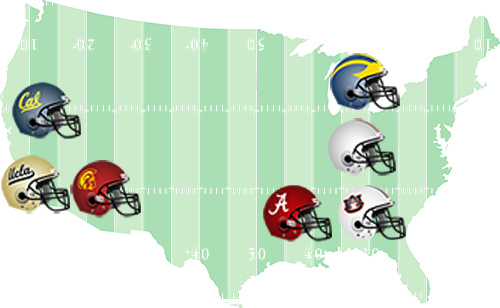
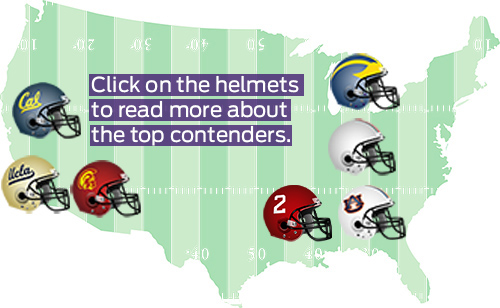
updated chapter 5

Changed region(s): [[0.18, 0.2338, 0.63, 0.4968], [0.54, 0.6136, 0.69, 0.789], [0.57, 0.5844, 0.6, 0.6136]]

diff --git a/templates/_assets/chapterfive_map.html b/templates/_assets/chapterfive_map.html
@@ -1,7 +1,7 @@
 <div class="img-container map-graphic">
     
   <h2>Tracking Najee Harris' recruitment</h2>
-  <p>Antioch High's Najee Harris, the nation's consensus No. 1 recruit, has fielded scholarship offers from nearly every major college football program in the nation. He verbally committed to Alabama as a high school sophomore in April 2015, but he has kept his recruitment open and made unofficial visits to several top schools this past summer. Harris can't officially commit until national signing day on Feb. 1.<br>Here's a look at some of the top candidates:</p>
+  <p>Antioch High's Najee Harris, the nation's consensus No. 1 recruit, has fielded scholarship offers from nearly every major college football program in the nation. He verbally committed to Alabama as a high school sophomore in April 2015, but he has kept his recruitment open and made unofficial visits to several top schools this past summer. Harris can't officially commit until national signing day on Feb. 1.</p>
   <img id="map-img" usemap="#imageMap" src="{{url_for('static', filename='images/recruiting/map.jpg')}}">
   <img id="map-img-mobile" usemap="#imageMap-mobile" src="{{url_for('static', filename='images/recruiting/map-mobile.jpg')}}">
   <p class="caption"><span class="byline"> Graphics: Todd Trumbull, The Chronicle</span></p>
@@ -10,6 +10,7 @@
 
 		<area shape="poly" coords="684,161,687,170,687,171,700,171,700,173,701,173,703,176,704,176,705,194,702,195,701,197,697,198,696,200,685,200,683,197,681,197,680,195,678,194,678,193,676,193,675,191,669,191,666,195,665,195,662,199,654,200,654,201,653,201,653,200,650,200,650,199,647,199,647,198,643,198,643,197,640,197,640,196,637,196,637,195,631,194,631,193,630,193,629,188,628,188,628,186,627,186,627,183,626,183,626,181,625,181,625,178,624,178,624,176,623,176,623,158,624,158,624,156,626,155,626,153,627,153,627,151,628,151,628,149,629,149,629,147,630,147,630,145,639,137,645,136,645,135,647,135,647,134,654,134,654,133,670,134,670,135,675,136,676,138,678,138,682,143,685,144,685,146,688,148,688,150,690,151,690,152,691,152,692,157" onclick="showonlyone('michigan')" alt="michigan" title="michigan"/>
 		<div id="michigan" class="tool">
+			<img class="helmet" src="{{url_for('static', filename='images/recruiting/michigan.png')}}">
 			<h2>Michigan</h2>
 			<div class="close">X</div>
 			<table class="map-popup">
@@ -50,7 +51,7 @@
 		</div>
 
 		<area shape="poly" coords="692,240,695,249,696,249,696,250,704,250,708,250,708,251,709,251,710,255,711,255,711,260,712,260,712,267,712,272,713,272,713,273,712,273,710,276,708,276,708,277,691,278,684,270,682,270,682,269,678,269,671,277,668,277,668,278,655,277,655,276,652,276,652,275,648,275,648,274,645,274,645,273,641,273,641,272,640,272,639,269,638,269,638,267,637,267,637,264,636,264,636,262,635,262,635,260,634,260,634,258,633,258,632,249,632,238,633,238,634,235,635,235,635,233,637,232,637,230,639,229,639,227,641,226,641,224,643,223,643,221,644,221,645,218,654,215,654,214,660,213,660,212,674,212,674,213,676,213,677,215,681,216,682,218,684,218,685,220,689,221,690,223,692,223,693,225,696,227,696,229,699,231,699,235,698,235,698,237,696,238,696,239" onclick="showonlyone('ohio')" alt="ohio" title="ohio"/>
-		<div id="ohio" class="tool"><h2>Ohio State</h2><div class="close">X</div><table class="map-popup">
+		<div id="ohio" class="tool"><img class="helmet" src="{{url_for('static', filename='images/recruiting/ohio.png')}}"><h2>Ohio State</h2><div class="close">X</div><table class="map-popup">
 			  <tbody>
 			    <tr>
 			      <td>City</td>
@@ -87,7 +88,7 @@
 	  		</div></div>
 
 		<area shape="poly" coords="694,373,695,376,696,376,696,378,698,379,698,381,699,381,699,384,697,385,697,387,694,388,694,389,693,389,693,392,694,392,695,398,709,399,710,404,711,404,712,423,709,424,708,426,700,426,700,427,692,427,691,425,688,424,684,419,677,419,675,422,673,422,669,427,659,427,659,426,653,425,653,424,649,424,649,423,646,423,646,422,641,421,640,418,639,418,639,416,638,416,638,414,637,414,637,412,636,412,636,410,635,410,635,408,634,408,634,406,633,406,633,401,632,401,632,386,633,386,633,384,634,384,634,382,635,382,635,380,636,380,636,378,637,378,637,376,638,376,638,374,639,374,641,371,643,371,646,367,648,367,649,365,654,364,654,363,657,363,657,362,660,362,660,361,673,361,673,362,675,362,675,363,679,364,680,366,682,366,682,367,684,367,685,369,689,370,689,371,691,371,691,372" onclick="showonlyone('auburn')" alt="auburn" title="auburn"/>
-		<div id="auburn" class="tool"><h2>Auburn</h2><div class="close">X</div><table class="map-popup">
+		<div id="auburn" class="tool"><img class="helmet" src="{{url_for('static', filename='images/recruiting/auburn.png')}}"><h2>Auburn</h2><div class="close">X</div><table class="map-popup">
 			  <tbody>
 			    <tr>
 			      <td>City</td>
@@ -124,7 +125,7 @@
 	  		</div></div>
 
 		<area shape="poly" coords="630,400,632,423,630,424,630,425,628,425,627,427,619,427,619,428,611,428,611,427,609,427,608,425,603,421,602,419,599,419,599,420,597,420,597,421,595,421,594,423,592,424,592,425,590,425,588,428,583,428,583,429,579,429,579,428,577,428,577,427,571,426,571,425,566,424,566,423,564,423,564,422,561,422,561,421,559,421,558,419,557,419,556,414,555,414,555,411,554,411,554,408,553,408,553,406,552,406,551,400,550,400,550,387,551,387,551,384,552,384,552,382,554,381,554,379,556,378,556,376,557,376,557,374,559,373,561,370,563,370,567,365,569,365,569,364,571,364,571,363,574,363,574,362,578,362,578,361,593,361,593,362,597,363,597,364,599,364,599,365,601,365,601,366,603,366,603,367,605,367,611,372,611,374,616,378,616,380,620,383,620,384,619,384,611,390,614,399,615,399,615,400" onclick="showonlyone('alabama')" alt="alabama" title="alabama"/>
-		<div id="alabama" class="tool"><h2>Alabama</h2><div class="close">X</div><table class="map-popup">
+		<div id="alabama" class="tool"><img class="helmet" src="{{url_for('static', filename='images/recruiting/alabama.png')}}"><h2>Alabama</h2><div class="close">X</div><table class="map-popup">
 			  <tbody>
 			    <tr>
 			      <td>City</td>
@@ -161,7 +162,7 @@
 	  		</div></div>
 
 		<area shape="poly" coords="145,327,145,329,155,338,155,340,158,342,158,343,157,343,156,345,154,345,152,348,150,349,150,352,151,352,152,359,167,360,169,369,170,369,170,384,166,385,165,387,147,387,140,379,135,379,130,385,128,385,126,388,115,388,115,387,109,386,109,385,105,385,105,384,102,384,102,383,99,383,99,382,98,382,97,379,96,379,96,377,95,377,95,375,94,375,94,373,93,373,92,368,91,368,89,362,88,362,89,353,90,353,90,349,91,349,93,337,97,334,97,333,99,333,100,331,103,330,103,329,105,329,107,326,109,326,110,324,113,323,113,322,116,322,116,321,132,321,132,322,134,322,134,323" onclick="showonlyone('usc')" alt="usc" title="usc"/>
-		<div id="usc" class="tool"><h2>USC</h2><div class="close">X</div><table class="map-popup">
+		<div id="usc" class="tool"><img class="helmet" src="{{url_for('static', filename='images/recruiting/usc.png')}}"><h2>USC</h2><div class="close">X</div><table class="map-popup">
 			  <tbody>
 			    <tr>
 			      <td>City</td>
@@ -172,8 +173,8 @@
 			      <td>360 miles</td>
 			    </tr>
 			    <tr>
-			      <td>Record (as of Oct. 26)</td>
-			      <td>4-3</td>
+			      <td>Record (as of Oct. 27)</td>
+			      <td>5-3</td>
 			    </tr>
 			    <tr>
 			      <td>AP rank</td>
@@ -198,7 +199,7 @@
 	  		</div></div>
 
 		<area shape="poly" coords="70,316,72,325,81,326,81,327,86,327,86,328,87,328,87,335,87,351,84,352,84,353,81,353,81,354,78,354,78,355,67,354,61,347,59,347,59,346,54,346,46,355,35,355,17,349,16,346,15,346,15,344,14,344,14,342,13,342,12,337,11,337,10,333,9,333,9,329,8,329,8,315,9,315,11,309,12,309,12,307,13,307,13,305,14,305,14,303,19,296,21,296,21,295,23,295,23,294,25,294,25,293,27,293,27,292,29,292,29,291,35,289,35,288,53,288,53,289,57,290,57,291,61,292,62,294,66,295,69,300,73,303,73,305,76,307,76,309,78,310,78,311,77,311,76,313,74,313,74,314,73,314,73,315" onclick="showonlyone('ucla')" alt="ucla" title="ucla"/>
-		<div id="ucla" class="tool"><h2>UCLA</h2><div class="close">X</div><table class="map-popup">
+		<div id="ucla" class="tool"><img class="helmet" src="{{url_for('static', filename='images/recruiting/ucla.png')}}"><h2>UCLA</h2><div class="close">X</div><table class="map-popup">
 			  <tbody>
 			    <tr>
 			      <td>City</td>
@@ -235,7 +236,7 @@
 	  		</div></div>
 
 		<area shape="poly" coords="72,233,75,233,75,234,86,234,88,241,89,241,89,258,87,259,87,261,68,262,60,253,54,253,54,255,49,259,48,261,43,261,43,262,33,262,33,261,24,259,24,258,22,258,22,257,16,256,12,245,11,245,11,243,10,243,10,240,9,240,9,238,8,238,7,235,8,235,8,220,9,220,10,217,11,217,12,214,14,213,14,211,17,209,17,207,20,205,21,202,23,202,23,201,25,201,25,200,28,200,28,199,34,197,34,196,37,196,37,195,52,195,52,196,55,197,55,198,57,198,58,200,62,201,63,203,65,203,65,204,67,204,68,206,71,208,71,210,77,215,77,220,75,221,75,222,73,222,73,223,71,223,71,224,70,224,70,227,71,227" onclick="showonlyone('cal')" alt="cal" title="cal"/>
-		<div id="cal" class="tool"><h2>Cal</h2><div class="close">X</div><table class="map-popup">
+		<div id="cal" class="tool"><img class="helmet" src="{{url_for('static', filename='images/recruiting/cal.png')}}"><h2>Cal</h2><div class="close">X</div><table class="map-popup">
 			  <tbody>
 			    <tr>
 			      <td>City</td>
@@ -246,8 +247,8 @@
 			      <td>35 miles</td>
 			    </tr>
 			    <tr>
-			      <td>Record (as of Oct. 26)</td>
-			      <td>4-3</td>
+			      <td>Record (as of Oct. 27)</td>
+			      <td>4-4</td>
 			    </tr>
 			    <tr>
 			      <td>AP rank</td>

diff --git a/templates/_assets/chapterfive.html b/templates/_assets/chapterfive.html
@@ -13,7 +13,7 @@
 
 <div class="inline-img">
   <img src="http://ww1.hdnux.com/photos/51/21/44/11611737/5/900x900.jpg">
-  <p class="caption">Michigan Wolverines head coach Jim Harbaugh puts hat on heart during the national anthem before Antioch’s home game against Liberty-Brentwood on Oct. 14. The former 49ers coach was in Antioch to watch sought-after running back Najee Harris, whose team won 62-25. <span class="byline"> Michael Macor, The Chronicle</span></p>
+  <p class="caption">Michigan Wolverines head coach Jim Harbaugh puts hat on heart during the national anthem before Antioch’s home game against Liberty-Brentwood on Oct. 14. The former 49ers coach was in Antioch to watch Harris, whose team won 62-25. <span class="byline"> Michael Macor, The Chronicle</span></p>
 </div>
 
 <p>Eighteen months ago, as a wide-eyed sophomore on an unofficial visit to Alabama, Harris made a nonbinding verbal commitment to play for the Crimson Tide. He soon decided to keep his recruitment open, leaving the door ajar for many high-powered programs. Now, as the most coveted senior in the country, he’s still weighing where to play next year — and the competition to land him grows more intense every week.</p>
@@ -25,11 +25,11 @@
 <p>This is testament to how every twist and turn can raise the stakes in the crazy-competitive world of recruiting, and no player in the class of 2017 creates a more spirited tussle than Harris.</p>
 
 
-<p>Harbaugh’s visit to Antioch during Michigan’s bye week was big news on social media and recruiting websites. Images and video quickly went viral: Harbaugh posing with fans, chatting with Antioch principal Louie Rocha and introducing homecoming queen.</p>
+<p>Harbaugh’s visit to Antioch during Michigan’s bye week was big news on social media and recruiting websites. Images and video quickly went viral: Harbaugh posing with fans, chatting with Antioch principal Louie Rocha and introducing homecoming queen Tatiana Mendez.</p>
 
 <div class="inline-img">
   <img src="http://ww1.hdnux.com/photos/51/21/44/11611734/5/900x0.jpg">
-  <p class="caption">Antioch standout Najee Harris (No. 2) and his teammates get set to play  Freedom High in Oakley on Oct. 7. Freedom walloped Antioch 65-28, handing the Panthers their third loss of the season. <span class="byline"> Michael Macor, The Chronicle</span></p>
+  <p class="caption">Harris (No. 2) and his teammates get set to play Freedom High in Oakley on Oct. 7. Freedom walloped Antioch 65-28, handing the Panthers their third loss of the season. <span class="byline"> Michael Macor, The Chronicle</span></p>
 </div>
 
 <p>Alabama assistant coach Tosh Lupoi probably didn’t find this entertaining. Lupoi, a De La Salle-Concord alum who played at Cal and worked in the Pac-12 for six years, is an acclaimed recruiter who covers the West Coast for the Crimson Tide. He called Harris after Harbaugh’s visit and belittled Michigan’s schedule in the Big Ten, comparing it with the rugged road Alabama must navigate in the Southeastern Conference.</p>
@@ -60,7 +60,7 @@
 
 <div class="full-width-img">
       <img src="http://ww1.hdnux.com/photos/51/21/44/11611720/5/2000x2000.jpg">
-      <p class="caption">Heavily recruited Antioch running back Najee Harris leaps over Freedom High defender Jared Rodgers, showing some of the athleticism that makes Harris such a coveted prospect. <span class="byline"> Michael Macor, The Chronicle</span></p>
+      <p class="caption">Harris leaps over Freedom High defender Jared Rodgers, showing some of the athleticism that makes the Antioch running back such a coveted prospect. <span class="byline"> Michael Macor, The Chronicle</span></p>
   </div>
 
 <p>Lucido often gives Harris a ride home after practice and sometimes ferries him to doctor’s appointments. At least once a week, Harris joins Lucido’s family for dinner and uses the coach’s infrared sauna to accelerate his healing from the wear and tear of football.</p>
@@ -80,7 +80,7 @@
 <div class="float-img-container">
     <div class="float-img right vertical">
         <img src="http://ww1.hdnux.com/photos/51/21/44/11625154/5/1000x1000.jpg">
-      <p class="caption">Antioch High head coach John Lucido prevents star running back Najee Harris from joining an on-field fight in the Panthers’ loss to Freedom High School. <span class="byline"> Michael Macor, The Chronicle</span></p>
+      <p class="caption">Lucido prevents Harris from joining an on-field fight in the Panthers’ loss to Freedom High School. <span class="byline"> Michael Macor, The Chronicle</span></p>
     </div>
 </div>
 
@@ -101,7 +101,7 @@
 
 <div class="full-width-img">
   <img src="http://ww1.hdnux.com/photos/51/21/44/11611739/5/2000x2000.jpg">
-  <p class="caption">Antioch running back Najee Harris and assistant coach Brett Dudley watch video replays during the Antioch-Freedom game on Oct. 7. Dudley and Harris have become close, traveling together to football camps and on Harris’ unofficial college visits. <span class="byline"> Michael Macor, The Chronicle</span></p>
+  <p class="caption">Harris and assistant coach Brett Dudley watch video replays during the Antioch-Freedom game on Oct. 7. Dudley and Harris have become close, traveling together to football camps and on Harris’ unofficial college visits. <span class="byline"> Michael Macor, The Chronicle</span></p>
 </div>
 
 <p>As the recruiting chatter swirls around him, Harris tries to keep his gaze fixed on what he recently described as Antioch’s “terrible season.” His Panthers were 11-1 last year and reached the North Coast Section semifinals, but this season, they fell to 3-3 after the lopsided loss to Freedom.</p>
@@ -113,7 +113,7 @@
 <div class="float-img-container">
     <div class="float-img left">
         <img src="http://ww1.hdnux.com/photos/51/21/44/11611735/5/1000x1000.jpg">
-      <p class="caption">Antioch running back Najee Harris, wearing an Alabama stocking cap,  says his goodbyes to family and friends as he and his mom get ready for a red-eye flight to visit Alabama’s campus. They missed the flight, but the Crimson Tide might still be in Harris’ plans. <span class="byline"> Michael Macor, The Chronicle</span></p>
+      <p class="caption">Harris, wearing an Alabama stocking cap, says his goodbyes to family and friends as he and his mom get ready for a red-eye flight to visit Alabama’s campus. They missed the flight, but the Crimson Tide might still be in Harris’ plans. <span class="byline"> Michael Macor, The Chronicle</span></p>
     </div>
 </div>
 
@@ -124,7 +124,7 @@
 <p>Lupoi, the assistant coach, is expected to attend Antioch’s game Friday night (Alabama has a bye this week), and Crimson Tide coaches already have asked Harris when he might arrive on campus for good. Harris, with most of his schoolwork complete, hopes to graduate from Antioch after the first semester ends Dec. 23.</p>
 <div class="inline-img">
   <img src="http://ww1.hdnux.com/photos/51/21/44/11621970/5/900x900.jpg">
-  <p class="caption">Antioch High School running back Najee Harris gets a ride from his head coach, John Lucido, after practice last month. <span class="byline"> Michael Macor, The Chronicle</span></p>
+  <p class="caption">Najee Harris gets a ride from his head coach, Lucido, after practice last month. <span class="byline"> Michael Macor, The Chronicle</span></p>
 </div>
 <p>As he peers ahead — increasingly stressed by school, taking the SAT exam, his team’s pedestrian record and the roiling recruiting saga — America’s most wanted high school football player finds solace in his ties to his coaches and teammates. That won’t change when he leaves Antioch for Tuscaloosa, Ann Arbor or wherever.</p>
 

diff --git a/templates/_components/_header-sticky.html b/templates/_components/_header-sticky.html
@@ -32,19 +32,19 @@
     </div>
 
     <div class="link social">
-      <a id="mail-icon" title="Share via email" href="mailto:?subject={{title|urlencode}}&body={{description|urlencode}}%0A%0Ahttp%3A%2F%2Fprojects.sfchronicle.com%2F2016%2F{{config.SITE_PATH}}%2F{% if slug %}{{slug}}%2F{% endif %}">
+      <a id="mail-icon" title="Share via email" href="mailto:?subject={{title|urlencode}}&body={{description|urlencode}}%0A%0Ahttp%3A%2F%2Fprojects.sfchronicle.com%2F{{config.SITE_PATH}}%2F{% if slug %}{{slug}}%2F{% endif %}">
         <i class="fa fa-envelope" aria-hidden="true"></i>
       </a>
     </div>
 
     <div class="link social">
-      <a id="facebook-icon" title="Share on Facebook" href="#" target="_blank" onclick="window.open('https://www.facebook.com/sharer/sharer.php?u=http%3A%2F%2Fprojects.sfchronicle.com%2F2016%2F{{config.SITE_PATH}}%2F{% if slug %}{{slug}}%2F{% endif %}', 'facebook-share-dialog', 'width=626,height=436'); return false;">
+      <a id="facebook-icon" title="Share on Facebook" href="#" target="_blank" onclick="window.open('https://www.facebook.com/sharer/sharer.php?u=http%3A%2F%2Fprojects.sfchronicle.com%2F{{config.SITE_PATH}}%2F{% if slug %}{{slug}}%2F{% endif %}', 'facebook-share-dialog', 'width=626,height=436'); return false;">
         <i class="fa fa-facebook"></i>
       </a>
     </div>
     
     <div class="link social">
-      <a id="twitter-icon" title="Share on Twitter" href="https://twitter.com/intent/tweet?url=http%3A%2F%2Fprojects.sfchronicle.com%2F2016%2F{{config.SITE_PATH}}%2F{% if slug %}{{slug}}%2F{% endif %}&text={{twitter_text|urlencode}}&hashtags={{config.HASHTAG}}">
+      <a id="twitter-icon" title="Share on Twitter" href="https://twitter.com/intent/tweet?url=http%3A%2F%2Fprojects.sfchronicle.com%2F{{config.SITE_PATH}}%2F{% if slug %}{{slug}}%2F{% endif %}&text={{twitter_text|urlencode}}&hashtags={{config.HASHTAG}}">
         <i class="fa fa-twitter"></i>
       </a>
     </div>

diff --git a/templates/five.html b/templates/five.html
@@ -1,6 +1,6 @@
 {% extends 'base.html' %}
 
-{% block title %}{{title|safe}}{% endblock %}
+{% block title %}Najee Harris, the recruit: Alabama, Michigan, other top college football programs chase Antioch High prep star{% endblock %}
 {% block hearst_title %}{{title|safe}}{% endblock %}
 {% block hearst_class %}article{% endblock %}
 {% block hearst_date %}2016-10-28{% endblock %}
@@ -29,7 +29,7 @@
 		</div>
 	</div>
 
-	<p class="caption landing">Running back Najee Harris (left), the nation’s top high school prospect who is being recruited by No. 1-ranked Alabama and many other colleges, talks with John Lucido, the head coach at Antioch High, after practice earlier this month. <span class="byline"> Michael Macor, The Chronicle</span></p>
+	<p class="caption landing">Running back Najee Harris (left), who is being recruited by No. 1-ranked Alabama and many other colleges, talks with John Lucido, the head coach at Antioch High, after practice earlier this month. <span class="byline"> Michael Macor, The Chronicle</span></p>
 
 	{% include '_assets/chapterfive.html' %}
 	

diff --git a/static/styles/_chapterfive.scss b/static/styles/_chapterfive.scss
@@ -12,6 +12,11 @@
 	    max-width:490px;
       text-shadow:1px 1px 0 #000;
   	}
+
+    @media (max-width:700px){
+      top:inherit;
+      bottom:13%;
+    }
   }
 
   .title{
@@ -21,10 +26,17 @@
 
   .deck {
     line-height:1.2;
+    @media #{$mobile} {
+      font-size:0.75em;
+    }
   }
 
   .dim{
     opacity:0.3;
+  }
+
+  @media (max-width:700px){
+    background-position: 66% center;
   }
 
 }
@@ -71,7 +83,7 @@ i{
     
 .tool {
   position: absolute;
-  bottom: 20%;
+  bottom: 10%;
   right:25%;
   display: none;
   border: 1px solid #ccc;
@@ -125,7 +137,7 @@ i{
         
   .tool  {
     right: 0;
-    bottom:10%;
+    bottom:0;
     left: 0;
     margin: 0 auto;
     padding: 5%;
@@ -168,3 +180,6 @@ i{
   }
 }
 
+.helmet{
+  max-width:90px;
+}

diff --git a/views.py b/views.py
@@ -69,6 +69,6 @@ def home():
 def recruit():
     return render_template('five.html',
         slug="recruiting",
-        title=" ",
-        description="",
-        twitter_text=" ")
+        title="Top schools ramp up recruiting of No. 1 football prospect",
+        description="The Najee Chronicles: After unofficially committing to play for Alabama, Antioch's Najee Harris is still undecided - and the competition to land him grows more intense every week.",
+        twitter_text="Top schools ramp up recruiting of Antioch's Najee Harris, the nation's No. 1 football prospect")

diff --git a/build.py b/build.py
@@ -8,7 +8,7 @@ BUILD_DIR = os.path.join(os.path.realpath(os.path.dirname(__file__)), 'build')
 ROOT_URL = '//extras.sfgate.com'
 
 # CHANGE THE FOLDER SLUG TO NEW PROJECT 
-TEST_PROJECT_NAME = 'test-proj/najee'
+TEST_PROJECT_NAME = 'test-proj/najee-5'
 PROJECT_NAME = '2016/najee-harris'
 
 
